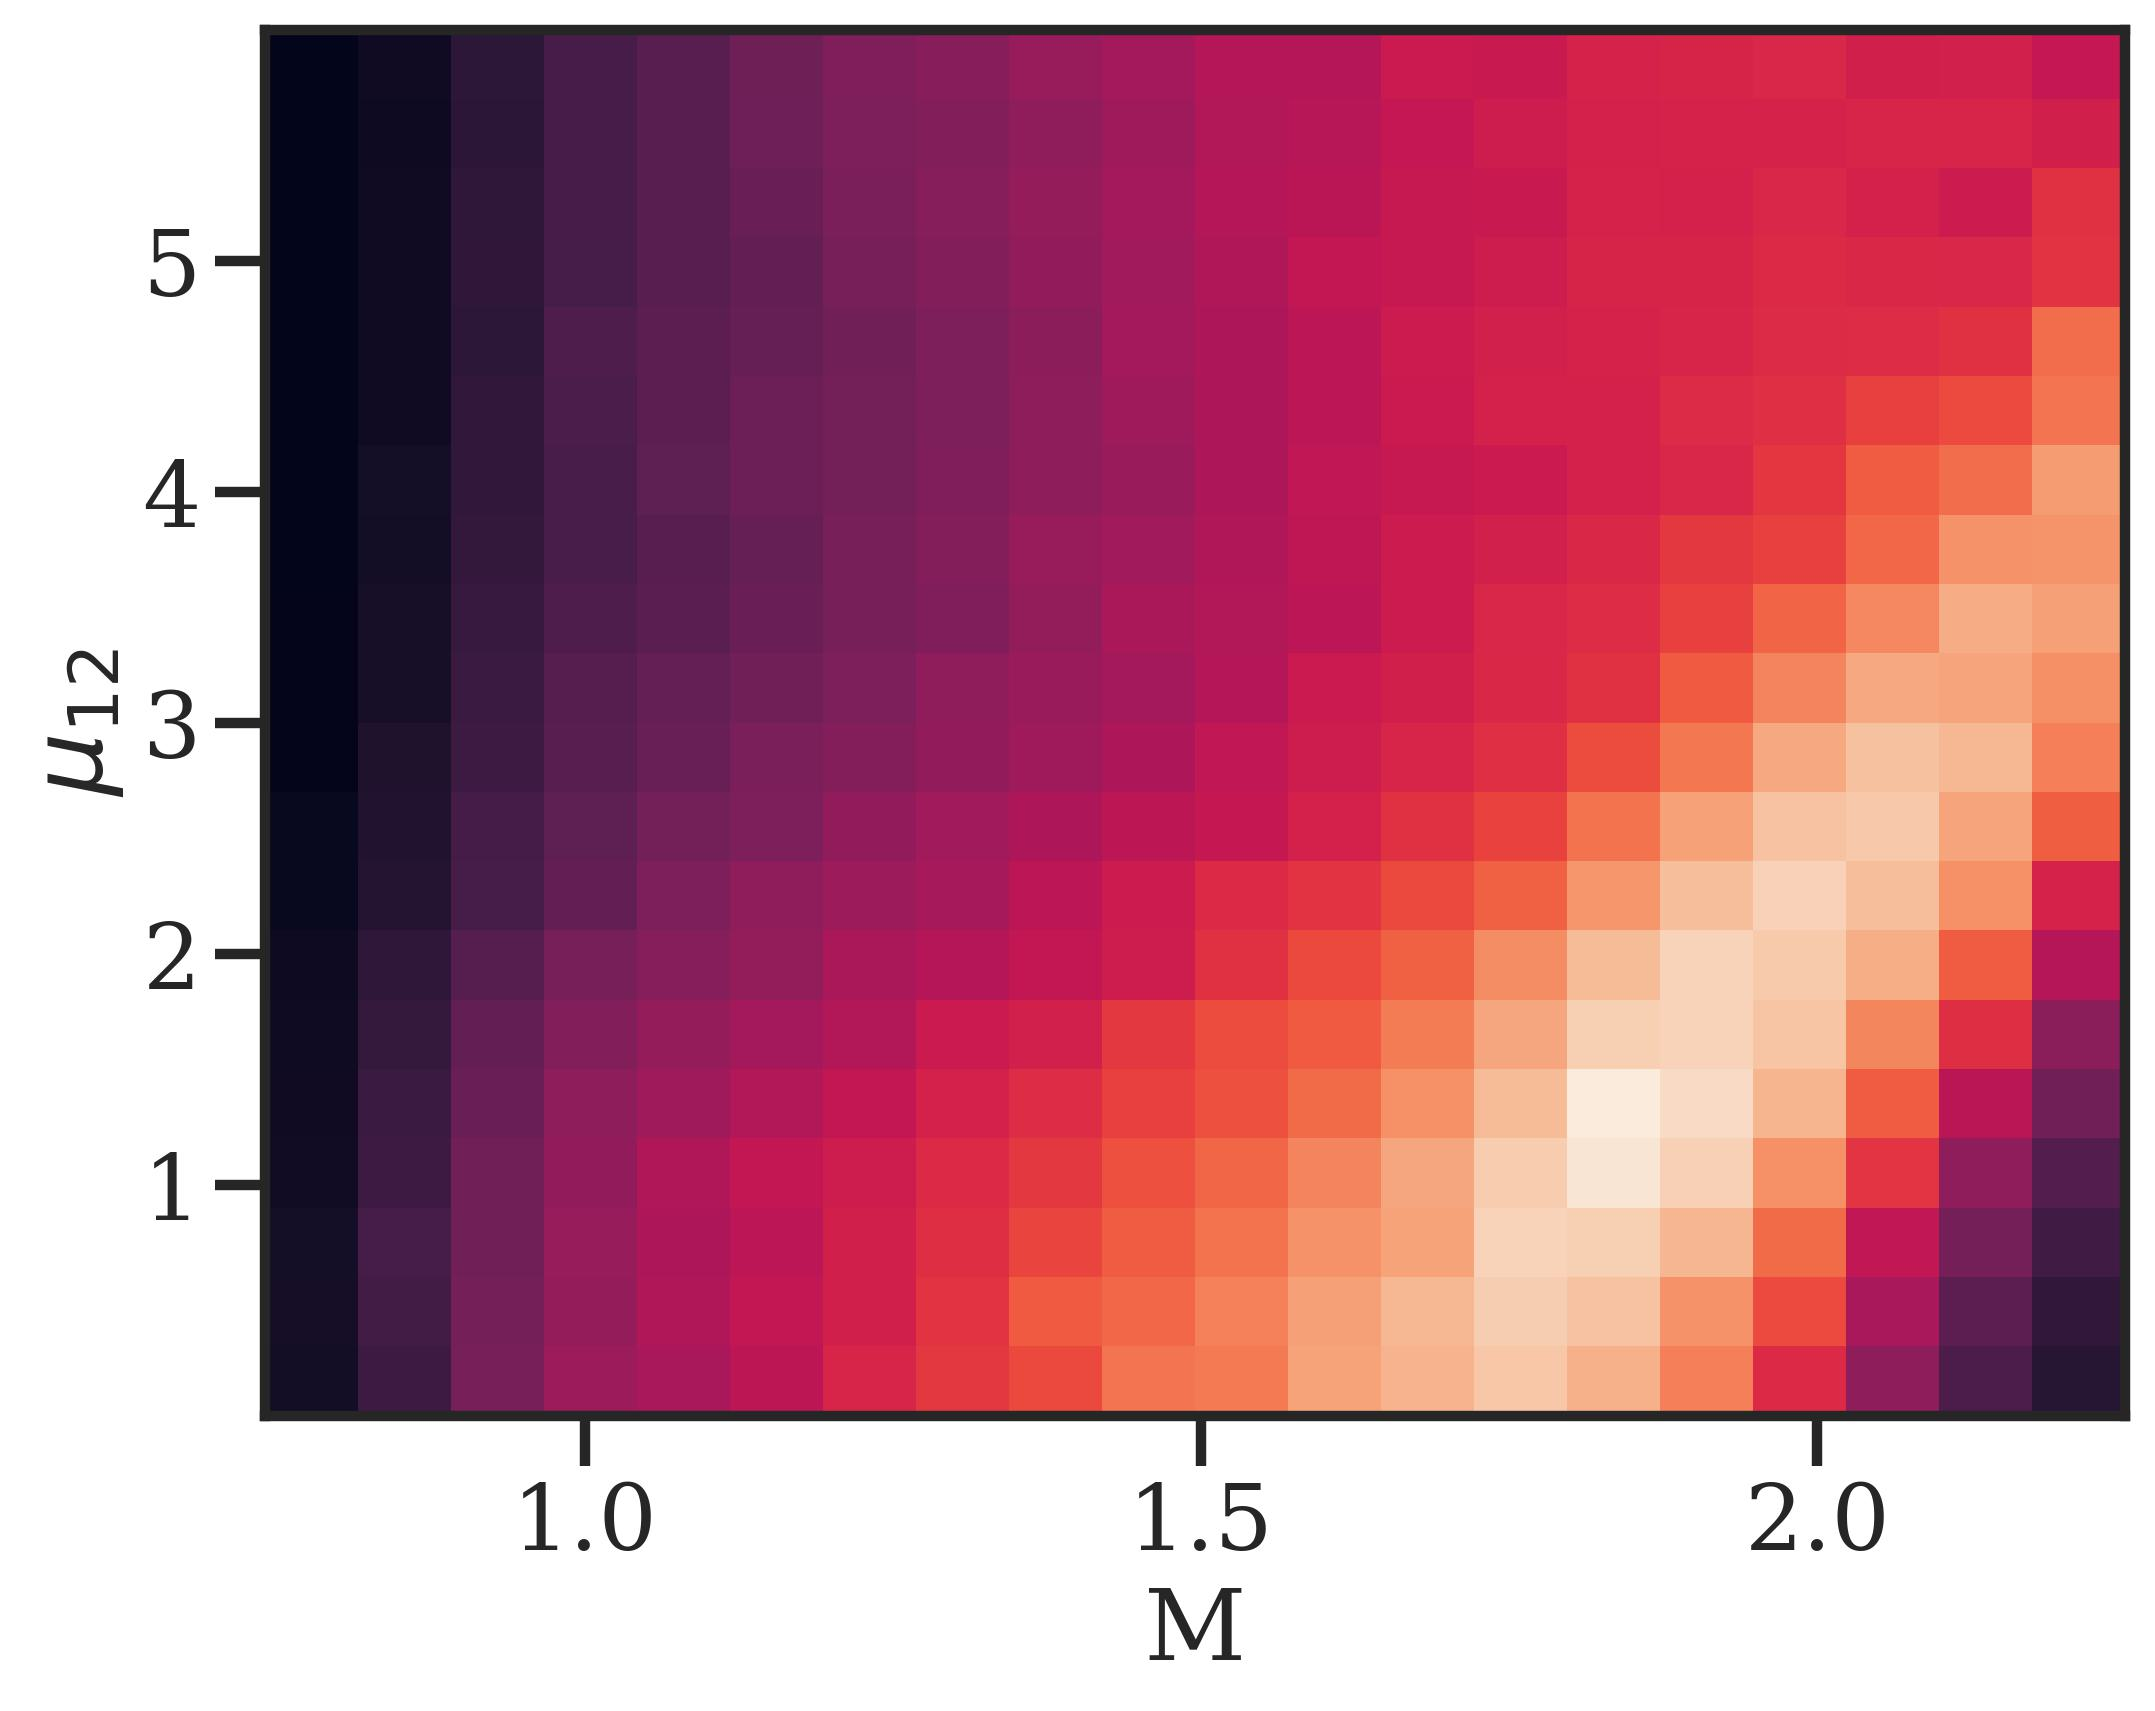
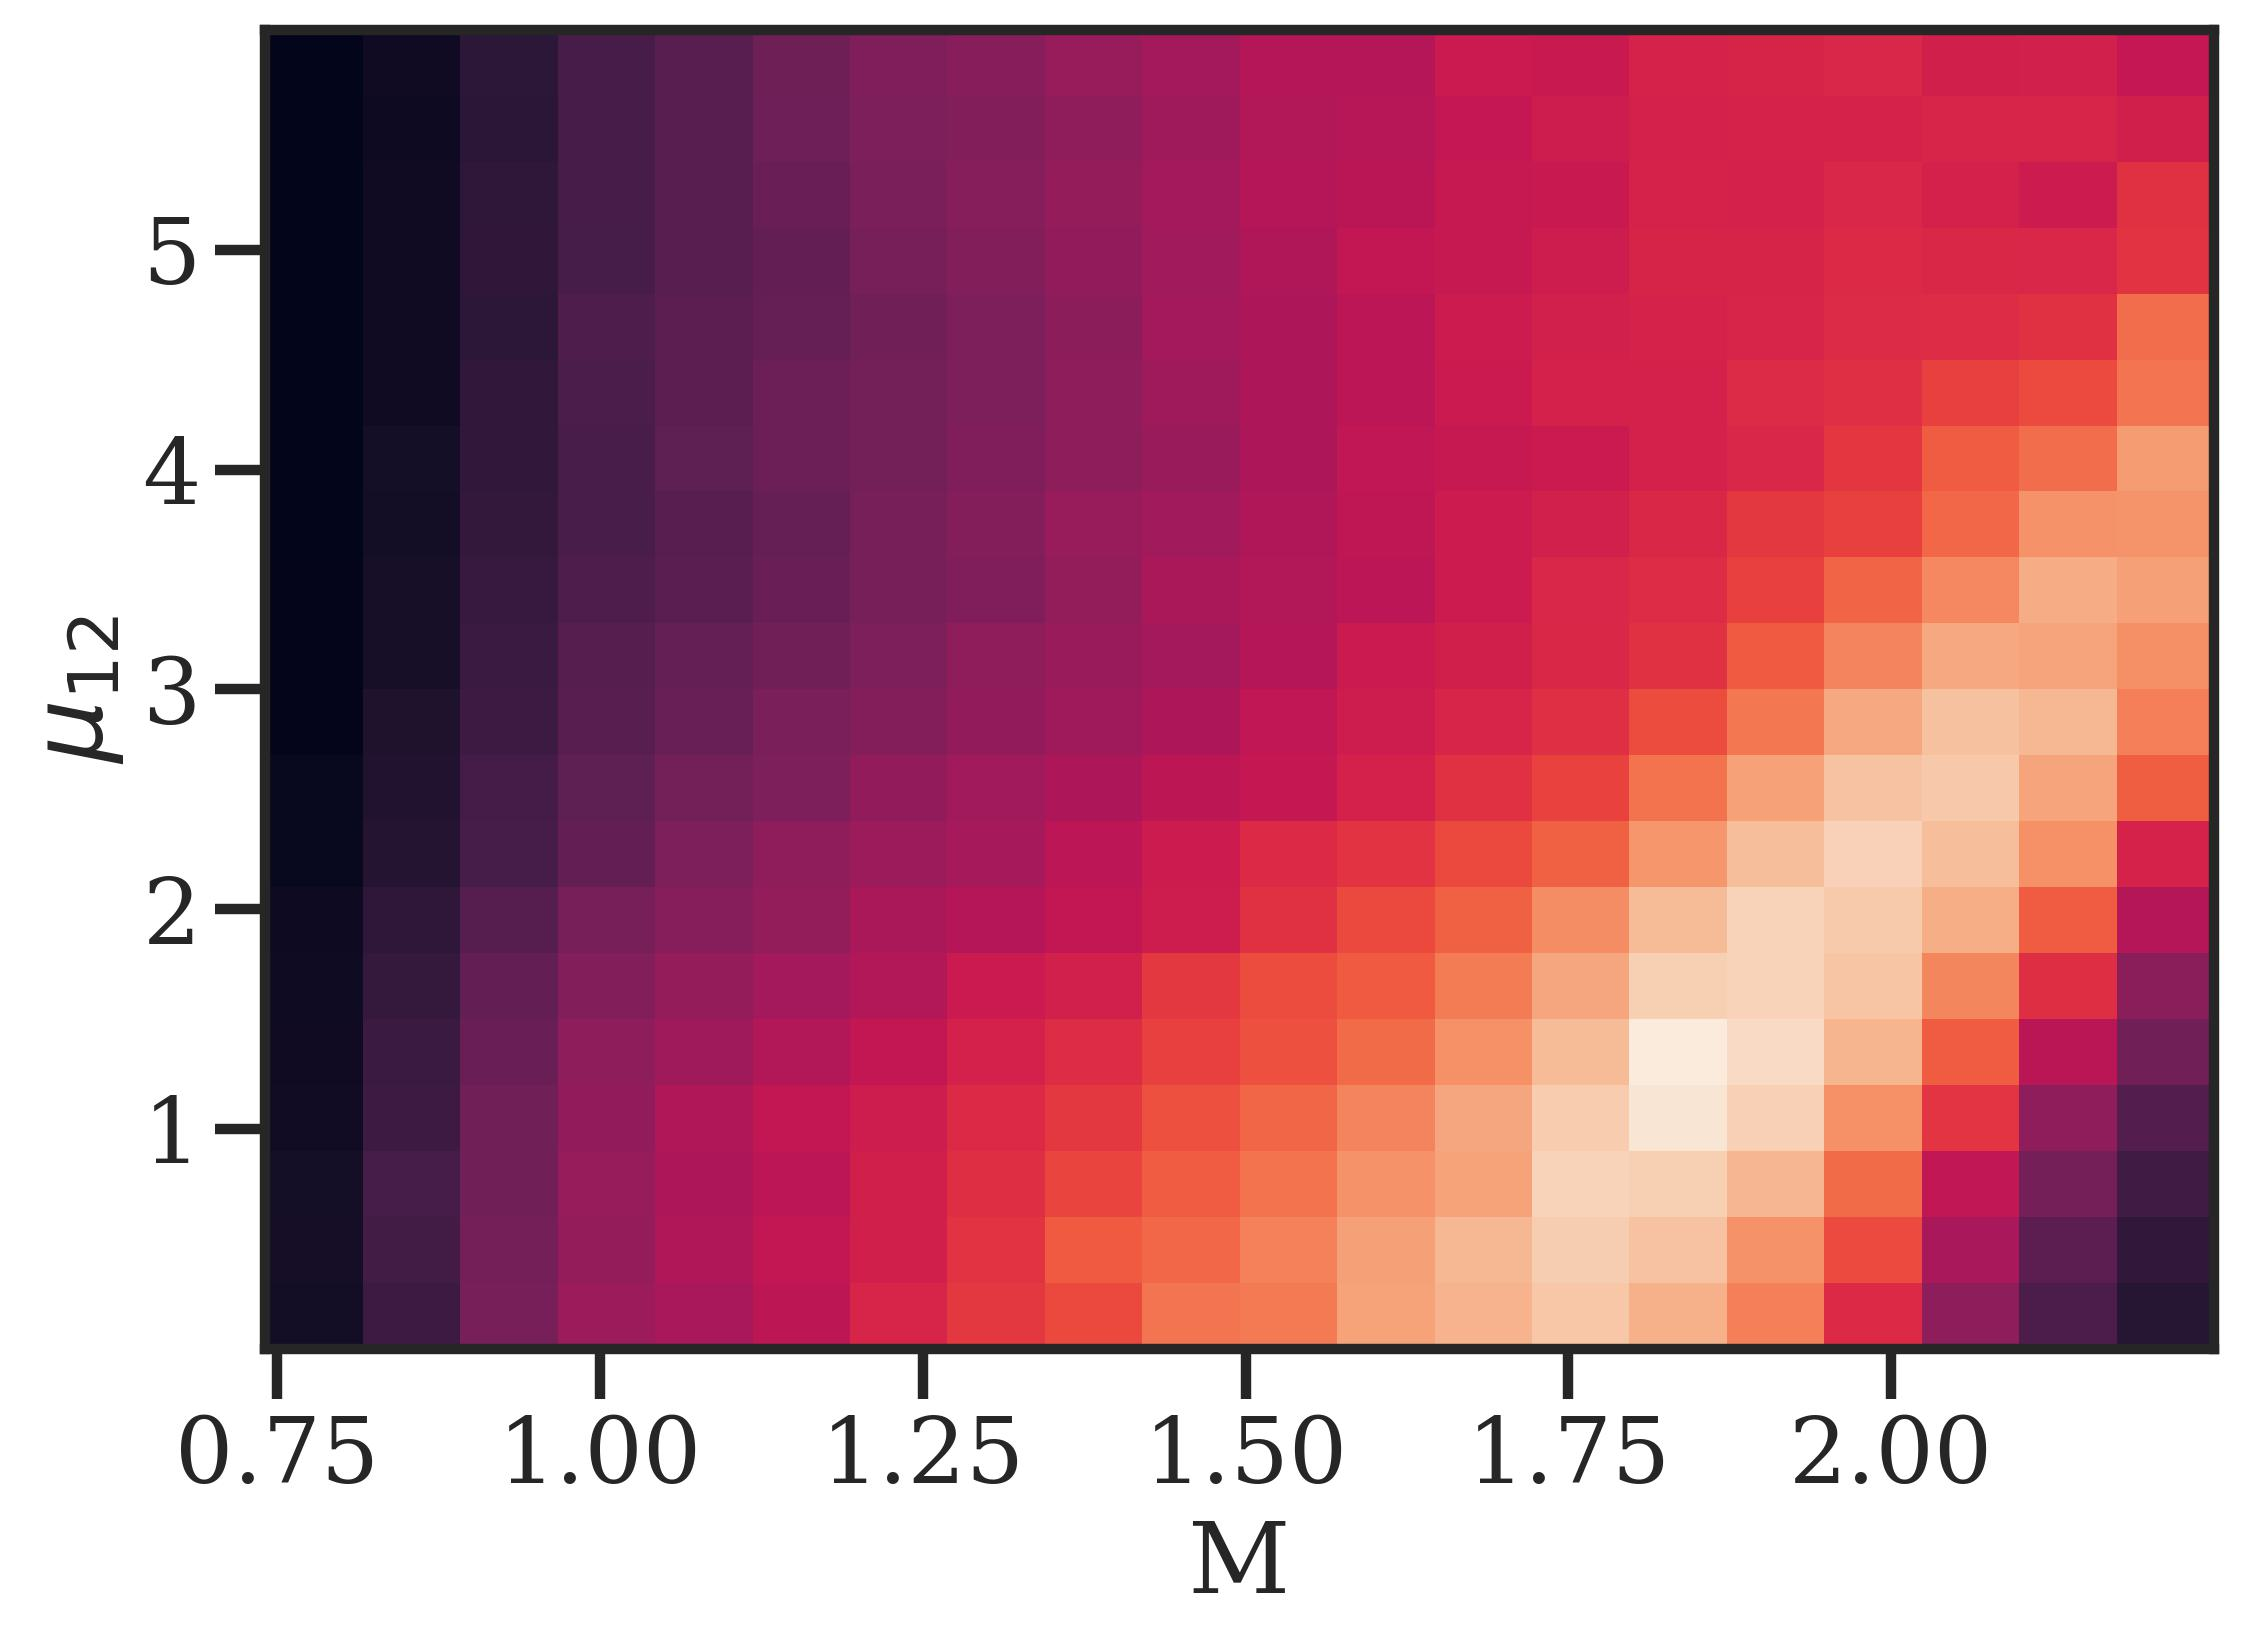
try autolayout

diff --git a/mcmc/analyzeMCMC.py b/mcmc/analyzeMCMC.py
@@ -21,8 +21,7 @@ plt.rcParams['xtick.top'] = False
 plt.rcParams['ytick.direction'] = 'out'
 plt.rcParams['xtick.direction'] = 'out'
 
-plt.rcParams['figure.subplot.wspace'] = 0.9
-plt.rcParams['figure.subplot.hspace'] = 0.9
+plt.rcParams['figure.autolayout'] = True
 
 def plotCorner(chain, log):
     '''
